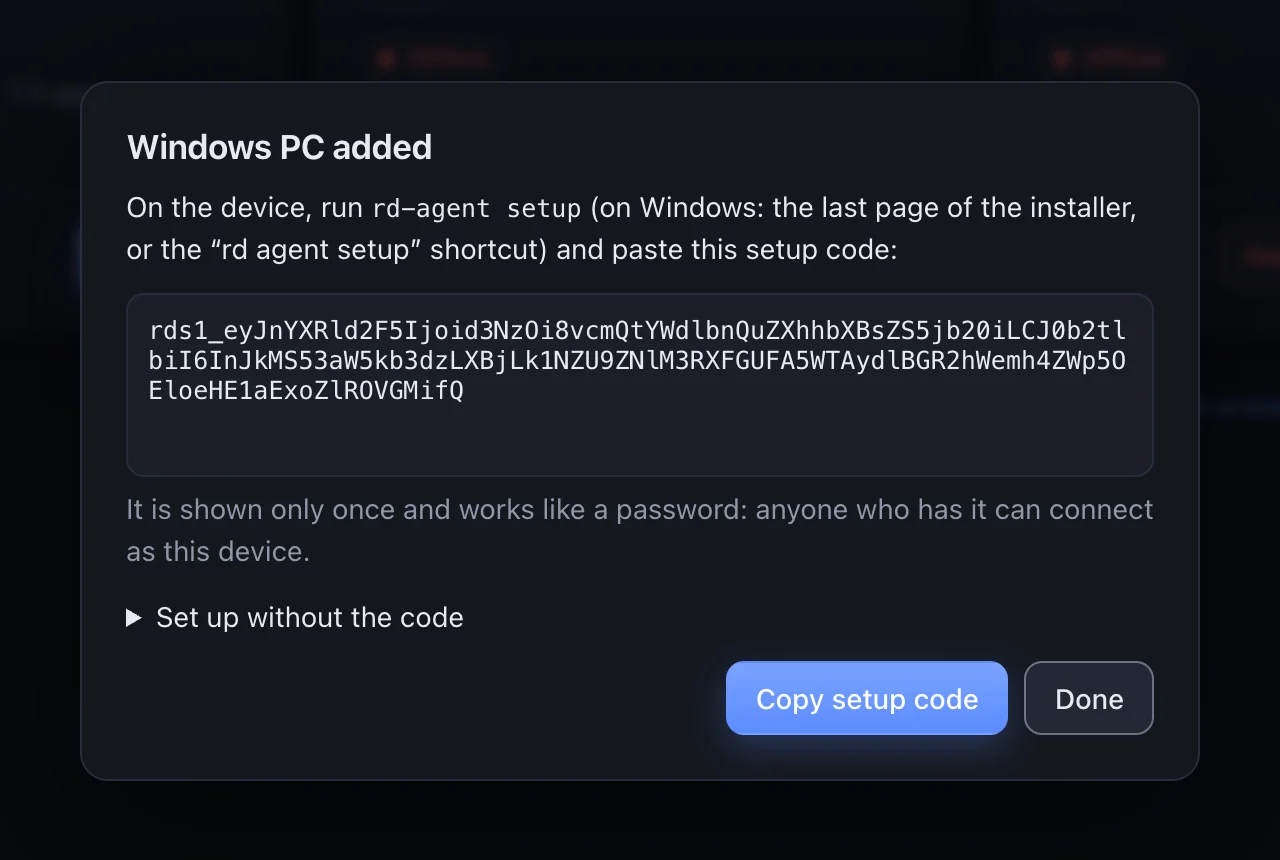
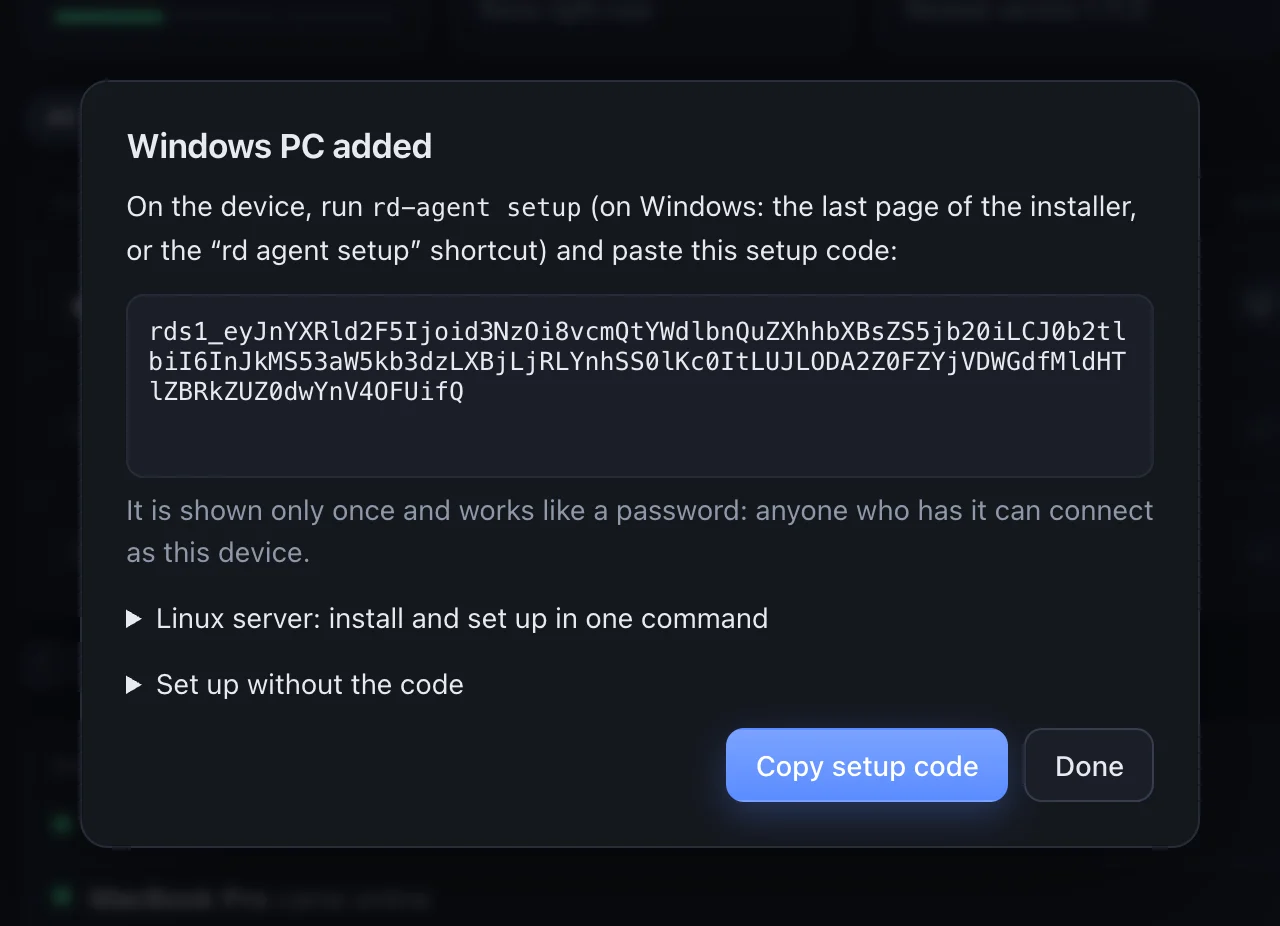
Docs: screenshots of the device console
Retaken from a dev gateway with the synthetic agent (site/README.md): portal.webp now
shows the console, add-device.webp the dialog over it, and the new portal-details.webp
the details panel, on Using rd (next to the paragraph about it) and as a "Device
details" tab on the home page.

screenshots.mjs: the portal-details shot; dialog[open] for the Add device crop, since
the command palette is a second <dialog> on the page.

Portal wording found while taking them: a machine the gateway has not seen since it
started counts as "not seen" in the versions tile, and the updates tile says "Newest
version" (it is the newest one seen, not necessarily a release check).

diff --git a/viewer/src/pages/portal.ts b/viewer/src/pages/portal.ts
@@ -717,7 +717,7 @@ function renderStats(ms: MachineInfo[], s: Summary): void {
       'update',
       ['Agent updates'],
       value(s.updates),
-      detailLine(s.newest ? `Newest release ${s.newest}` : 'No agent reports updates'),
+      detailLine(s.newest ? `Newest version ${s.newest}` : 'No agent seen yet'),
     ),
     statTile(
       null,
@@ -730,7 +730,7 @@ function renderStats(ms: MachineInfo[], s: Summary): void {
       h(
         'div',
         { className: 'stat-legend' },
-        ...versions.map((v) => h('span', { style: `--c:${v.color}` }, `${v.version || 'unknown'} × ${v.count}`)),
+        ...versions.map((v) => h('span', { style: `--c:${v.color}` }, `${v.version || 'not seen'} × ${v.count}`)),
       ),
     ),
   );

diff --git a/viewer/src/ui/portal-model.ts b/viewer/src/ui/portal-model.ts
@@ -58,7 +58,7 @@ export interface Summary {
   updates: number;
   /** The newest agent version anyone runs or was offered; empty when none is known. */
   newest: string;
-  /** Running agent versions, newest first; unknown last. */
+  /** Running agent versions, newest first; machines not seen since the gateway started (no version) last. */
   versions: VersionCount[];
 }
 
